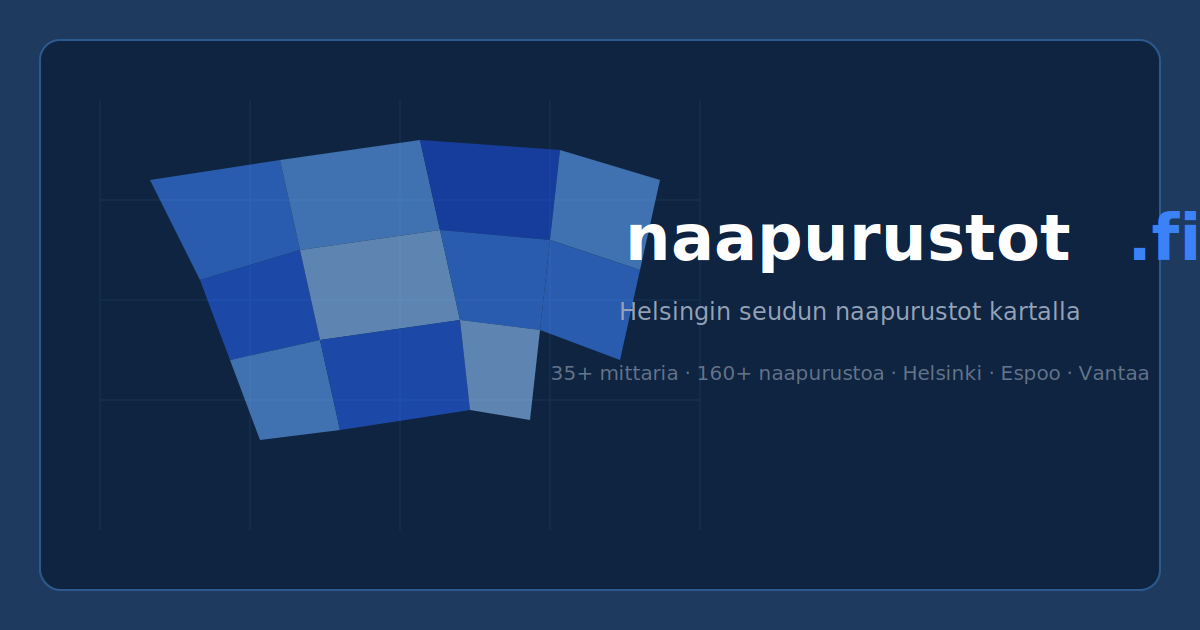
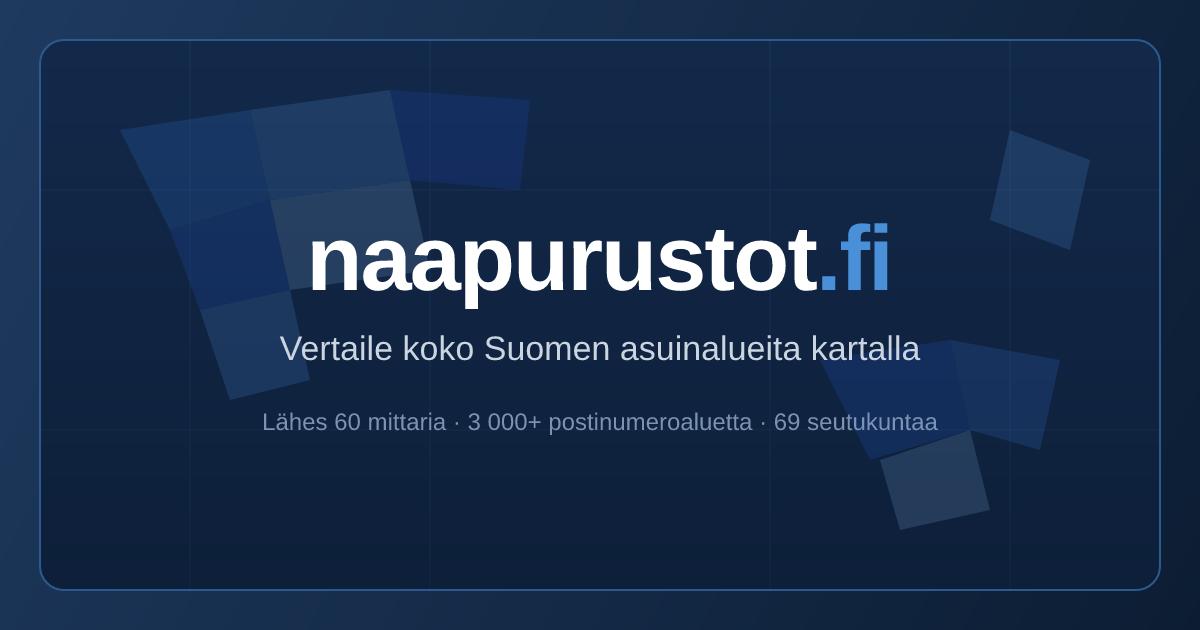
Fix link-preview: redesign og-image and shorten social title
- og-image.svg/png: fix clipped ".fi" (was running off the right edge),
  center the wordmark, and update stale Helsinki-only copy to the current
  all-Finland scope (~60 metrics, 3 000+ postal areas, 69 seutukunta).
- index.html: shorten og:title/twitter:title so the card no longer stacks
  a long title under the og:site_name; keep the long <title> for SEO.

diff --git a/index.html b/index.html
@@ -14,7 +14,7 @@
     <!-- Open Graph -->
     <meta property="og:type" content="website" />
     <meta property="og:url" content="https://naapurustot.fi/" />
-    <meta property="og:title" content="naapurustot.fi — vertaile asuinalueita, kaupunginosia ja lähiöitä kartalla" />
+    <meta property="og:title" content="naapurustot.fi — vertaile asuinalueita kartalla" />
     <meta property="og:description" content="Ilmainen karttapalvelu asuinalueiden, kaupunginosien ja lähiöiden vertailuun. Tutki naapurustoja kymmenillä eri mittareilla." />
     <meta property="og:image" content="https://naapurustot.fi/og-image.png" />
     <meta property="og:image:width" content="1200" />
@@ -27,7 +27,7 @@
 
     <!-- Twitter Card -->
     <meta name="twitter:card" content="summary_large_image" />
-    <meta name="twitter:title" content="naapurustot.fi — vertaile asuinalueita, kaupunginosia ja lähiöitä kartalla" />
+    <meta name="twitter:title" content="naapurustot.fi — vertaile asuinalueita kartalla" />
     <meta name="twitter:description" content="Ilmainen karttapalvelu asuinalueiden, kaupunginosien ja lähiöiden vertailuun. Tutki naapurustoja kymmenillä eri mittareilla." />
     <meta name="twitter:image" content="https://naapurustot.fi/og-image.png" />
 
